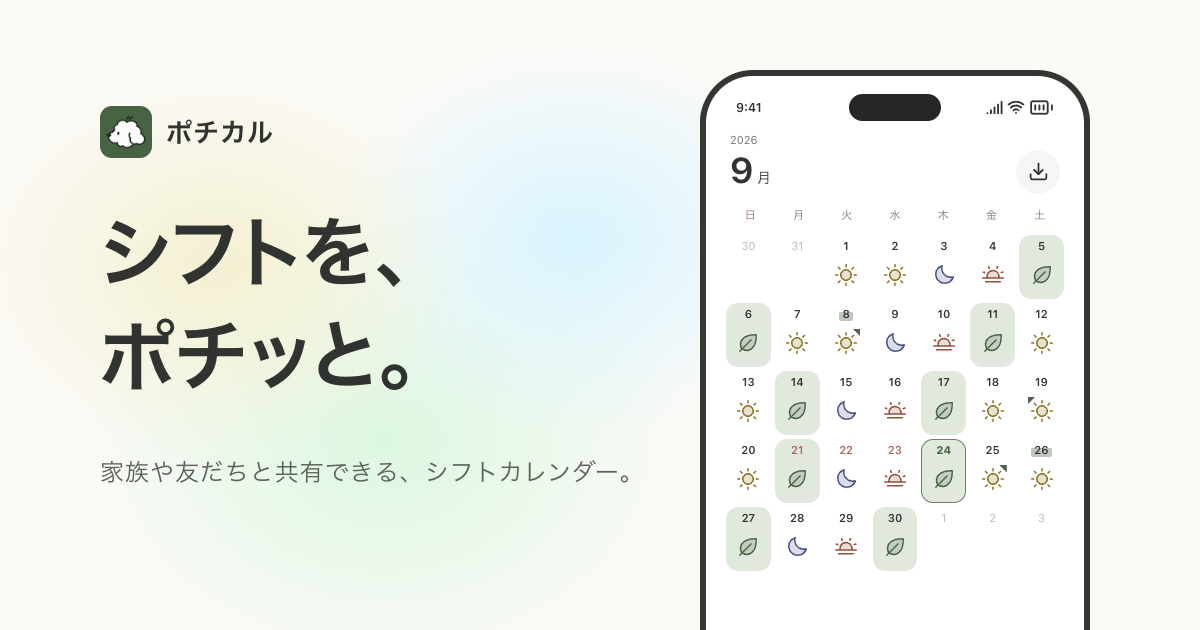
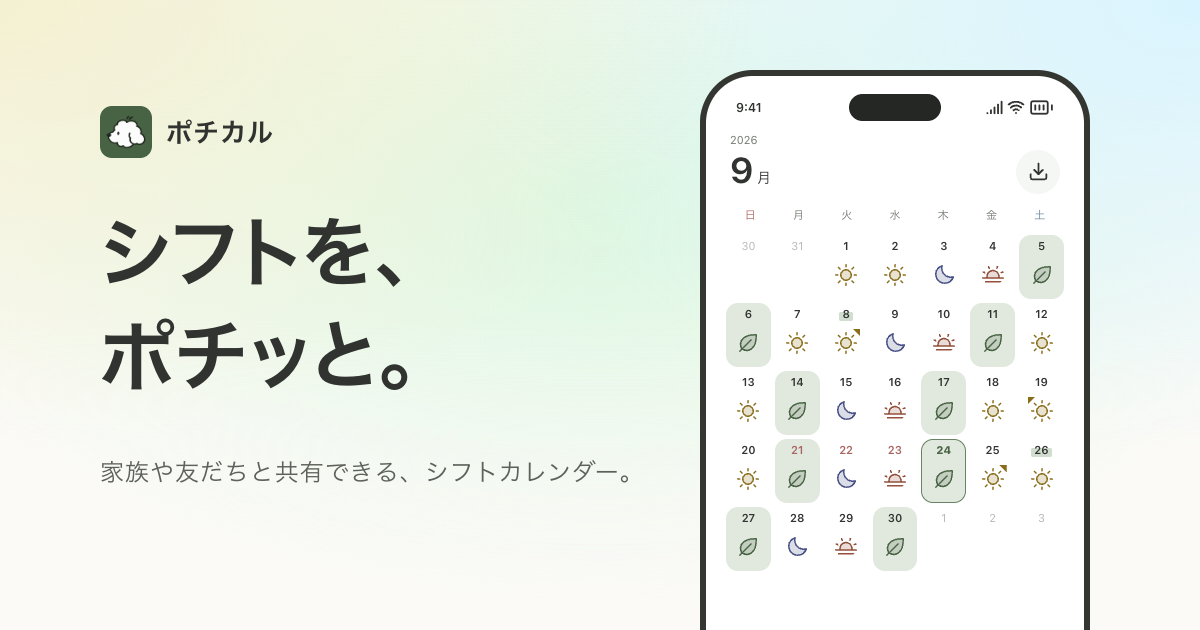
Let the share image's sky fall from the top like the top page's
The share image placed the ポチカル sky's three lights as soft spots
behind its words, while the top page lets them fall from both top
corners and the middle, as over the app's calendar. Both now take that
sky from one place in design-surprise, so a link's picture leads into
the page under the same sky. It is not kept clear at the very top as
the page is for Safari's bar: alone, that reads as a white band.

Changed region(s): [[0.0, 0.0, 0.5242, 0.4524], [0.5858, 0.0, 1.0, 0.2714]]

diff --git a/apps/web/src/routes/design_.share-image.tsx b/apps/web/src/routes/design_.share-image.tsx
@@ -5,7 +5,7 @@ import { css } from "styled-system/css";
 import { DesignCalendar } from "../components/design-calendar";
 import { sampleGroups } from "../components/design-group-data";
 import { DesignProviders } from "../components/design-providers";
-import { paleSkyLights, themeSkyId } from "../components/design-surprise";
+import { paleSkyFromTop, themeSkyId } from "../components/design-surprise";
 import { initialDesignSchedule } from "../lib/design-days";
 import {
   createUserStore,
@@ -30,8 +30,6 @@ export const Route = createFileRoute("/design_/share-image")({
 // bun run image:share takes from /design/share-image into public/share.png:
 // the top page's hero in one frame, its words on the app's ポチカル sky and
 // the calendar's phone rising from the bottom edge.
-const [skyLeft, skyMiddle, skyRight] =
-  paleSkyLights(themeSkyId("pochical")) ?? [];
 
 const styles = {
   brand: css({
@@ -79,8 +77,12 @@ const styles = {
     padding: "70px 110px 0 100px",
     position: "relative",
   }),
+  // The top page's sky as it falls at the same width, only not kept
+  // clear at the very top, where the page leaves room for Safari's bar.
   sky: css({
-    inset: 0,
+    height: "800px",
+    inset: "0 0 auto",
+    maskImage: "linear-gradient(to bottom, black 40%, transparent)",
     pointerEvents: "none",
     position: "absolute",
   }),
@@ -93,11 +95,7 @@ const styles = {
   }),
 };
 
-const skyBackground = [
-  `radial-gradient(30% 45% at 18% 42%, ${skyLeft} 0%, transparent 70%)`,
-  `radial-gradient(30% 45% at 48% 38%, ${skyRight} 0%, transparent 70%)`,
-  `radial-gradient(34% 50% at 32% 70%, ${skyMiddle} 0%, transparent 75%)`,
-].join(", ");
+const skyBackground = paleSkyFromTop(themeSkyId("pochical"));
 
 // The current proposal for each open design choice, as on the top page.
 const variants = parseDesignVariants({});

diff --git a/apps/web/src/components/design-surprise.tsx b/apps/web/src/components/design-surprise.tsx
@@ -105,13 +105,23 @@ export function paleSkyLights(id: string) {
 }
 
 // Light spreading from both top corners and the middle, fading down.
-function skyBackground(sky: Sky, scheme: "light" | "dark", ground: number) {
-  const [left, middle, right] = lightsOf(sky, scheme, ground);
+function lightFromTop([left, middle, right]: string[]) {
   return [
     `radial-gradient(90% 80% at 0% 0%, ${left} 0%, transparent 70%)`,
     `radial-gradient(90% 80% at 100% 0%, ${right} 0%, transparent 70%)`,
     `radial-gradient(80% 70% at 50% 25%, ${middle} 0%, transparent 75%)`,
   ].join(", ");
+}
+
+function skyBackground(sky: Sky, scheme: "light" | "dark", ground: number) {
+  return lightFromTop(lightsOf(sky, scheme, ground));
+}
+
+// A sky in light mode falling from the top, as over the app's calendar,
+// for the site's own sky: the top page's and its share image's.
+export function paleSkyFromTop(id: string) {
+  const lights = paleSkyLights(id);
+  return lights === undefined ? undefined : lightFromTop(lights);
 }
 
 // How one sky gives way to the next: at once from the tap, so the tap is

diff --git a/apps/web/src/components/lp-screens.tsx b/apps/web/src/components/lp-screens.tsx
@@ -16,6 +16,7 @@ import { DesignProviders, PresetContexts } from "./design-providers";
 import {
   BREATH_SECONDS,
   nextSkyId,
+  paleSkyFromTop,
   paleSkyLights,
   SKY_CHANGE,
   themeSkyId,
@@ -49,14 +50,10 @@ const variants = parseDesignVariants({});
 const HERO_SKY = themeSkyId("pochical");
 type SkyPlace = "top" | "sides";
 function skyBackground(id: string, place: SkyPlace) {
-  const [left, middle, right] = paleSkyLights(id) ?? [];
   if (place === "top") {
-    return [
-      `radial-gradient(90% 80% at 0% 0%, ${left} 0%, transparent 70%)`,
-      `radial-gradient(90% 80% at 100% 0%, ${right} 0%, transparent 70%)`,
-      `radial-gradient(80% 70% at 50% 25%, ${middle} 0%, transparent 75%)`,
-    ].join(", ");
+    return paleSkyFromTop(id);
   }
+  const [left, middle, right] = paleSkyLights(id) ?? [];
   return [
     `radial-gradient(70% 70% at 0% 45%, ${left} 0%, transparent 70%)`,
     `radial-gradient(70% 70% at 100% 55%, ${right} 0%, transparent 70%)`,
